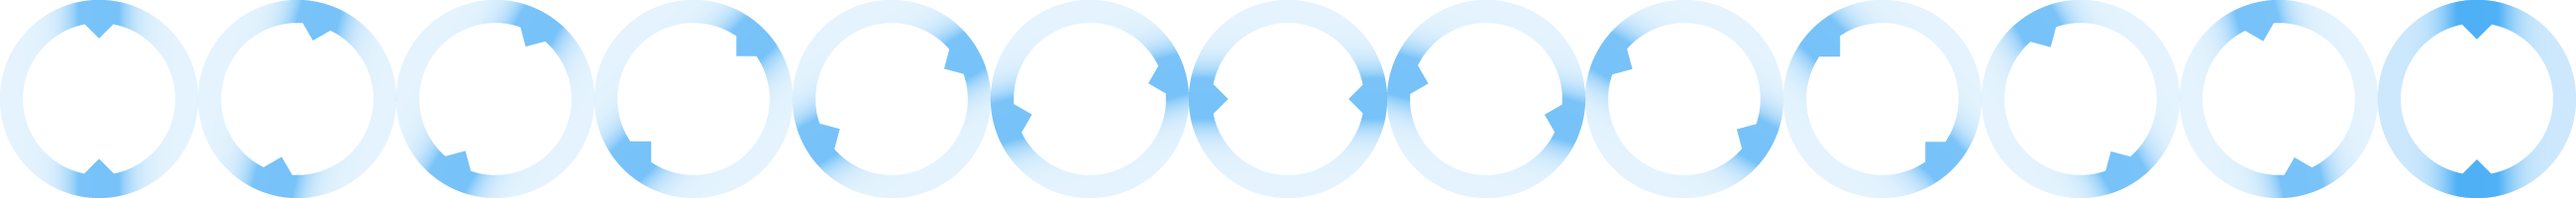
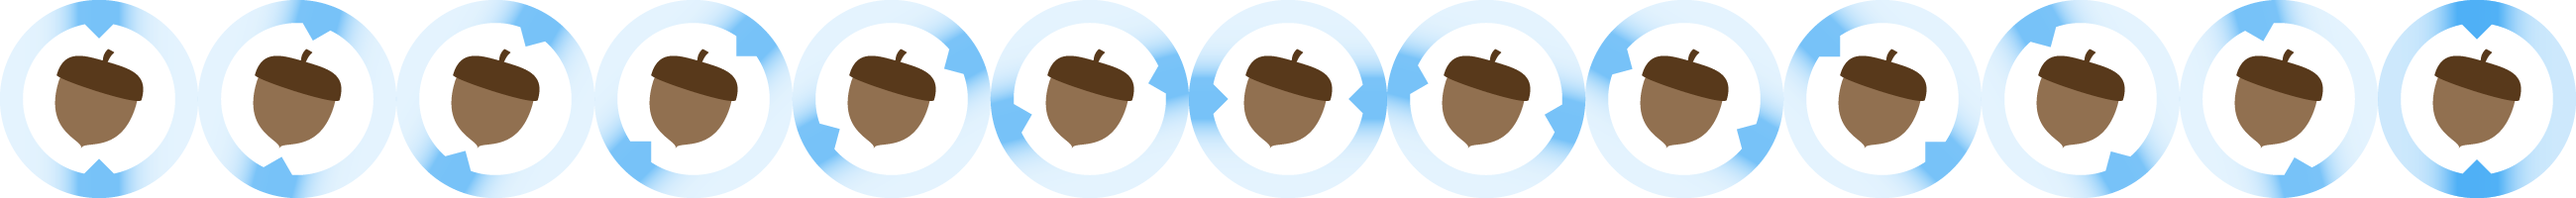
Committing latest changes

diff --git a/scripting/game.js b/scripting/game.js
@@ -1,4 +1,4 @@
-define(["jquery", "createjs", "owl", "acorn", "spinner", "jquery-scrolly", "jquery-ui-touch-punch"], function ($, createjs, owl, acorn, spinner) {
+define(["jquery", "createjs", "owl", "acorn", "statusbar", "jquery-scrolly", "jquery-ui-touch-punch"], function ($, createjs, owl, acorn, statusbar) {
     //Do setup work her
     var init = function() {
     	
@@ -13,6 +13,15 @@ define(["jquery", "createjs", "owl", "acorn", "spinner", "jquery-scrolly", "jque
       //wait for the image to load
       var imgTree = new Image();
       imgTree.onload = function(event) {
+    	  
+    	  var checkIntersection = function(rect1,rect2) {
+    		  if ( rect1.x >= rect2.x + rect2.width 
+    				  || rect1.x + rect1.width <= rect2.x 
+    				  || rect1.y >= rect2.y + rect2.height 
+    				  || rect1.y + rect1.height <= rect2.y ) return false;
+    		  return true;
+    	  };
+
     	  var tree = new createjs.Bitmap(event.target);
           stage.addChild(tree);               
           
@@ -21,9 +30,6 @@ define(["jquery", "createjs", "owl", "acorn", "spinner", "jquery-scrolly", "jque
           
           var newAcorn = acorn.create();
           stage.addChild(newAcorn);
-          
-          var newSpinner = spinner.create();
-          stage.addChild(newSpinner);
           
     	  stage.addEventListener("stagemousedown", function(event) {
     		  console.log(event, event.rawX, event.rawY);
@@ -55,12 +61,15 @@ define(["jquery", "createjs", "owl", "acorn", "spinner", "jquery-scrolly", "jque
 
           createjs.Ticker.timingMode = createjs.Ticker.RAF;
           createjs.Ticker.addEventListener("tick", function(event) {
-              if (newOwl.isFlying() && isOwlOnTree()) { 
-      			//newOwl.sleep();  
-      		  }
         	  newOwl.update();
               // this set makes it so the stage only re-renders when an event handler indicates a change has happened.
               stage.update(event);			  
+              
+              if (newOwl.isFlying() && !checkIntersection(newOwl.getBounds(), newAcorn.getBounds())) {
+            	  console.log("collision detected!!!");
+            	  statusbar.incrementAcorns();
+            	  acorn.visible = false;
+              }
           });
       };
       imgTree.src = "media/images/game/BG_tree.png";    

diff --git a/scripting/statusbar.js b/scripting/statusbar.js
@@ -1,32 +1,51 @@
 define(["jquery"], function ($) {
 
-    //Do setup work her
+	var maxAcorns = 5;
+	var maxEnergy = 2;
+	var currentAccorns = 0;
+	var currentEnergy = 0;
+	
+	var drawAcorns = function() {
+		$('div#acorns tr').empty();
+		for (var i = 0; i < maxAcorns; i++) {
+			$('div#acorns tr').append('<td><img src="media/images/game/acorn_'+ ((i < currentAccorns) ? 'on' : 'off') +'.png"/></td>');
+		}		
+	};
+	
+	var incrementAcorns = function() {
+		currentAccorns < maxAcorns && currentAccorns++ && drawAcorns();
+	};
+	
+	var decrementAcorns = function() {
+		currentAccorns > 0 && currentAccorns-- && drawAcorns();
+	};
+	
+	var incrementEnergy = function() {
+		currentEnergy < maxEnergy && currentEnergy++ && drawEnergy();
+	};
+	
+	var decrementEnergy = function() {
+		currentEnergy > 0 && currentEnergy-- && drawEnergy();
+	};
+	
+	var drawEnergy = function() {
+		for (var i = 0; i < maxEnergy; i++) {				
+			$('div#energy tr').append('<td><img src="media/images/game/energy_'+ ((i < currentEnergy) ? '1' : '2') +'.png"/></td>');
+		}		
+	};
+	
+    //Do setup work here
     var init = function() {
-		var noAcorns = 5;
-		var noEnergy = 2;
-							
-		setAcorns = function(acorns) {
-			$('div#acorns tr').empty();
-			for (var i = 0; i < noAcorns; i++) {
-				$('div#acorns tr').append('<td><img src="media/images/acorn_'+ ((i > acorns) ? 'on' : 'off') +'.png"/></td>');
-			}		
-		};
-		
-		setEnergy = function(engergy) {
-			for (var i = 0; i < noEnergy; i++) {				
-				
-				$('div#energy tr').append('<td><img src="media/images/energy_'+ ((true) ? '1' : '2') +'.png"/></td>');
-			}		
-		};
-		
-		setAcorns(0);
-		setEnergy(0);
+    	drawAcorns();
+		drawEnergy();
     };
 	
-	
-
     return {
-      init : init
+      init : init,
+      incrementAcorns : incrementAcorns,
+      incrementEnergy : incrementEnergy,
+      decrementAcorns : decrementAcorns,
+      decrementEnergy : decrementEnergy
     };
     
 });

diff --git a/scripting/acorn.js b/scripting/acorn.js
@@ -2,25 +2,28 @@
 define(['createjs'], function(createjs) {
 	
 	var img = new Image();
-	img.src = "media/images/game/acorn_on.png"; 
+	img.src = "media/images/game/spinner2.png"; 
 	
 	var create = function() {
 		var data = new createjs.SpriteSheet({
 			"images": [img],
-			"frames": {"regX": 0, "height": 124, "count": 1, "regY": 0, "width": 120},
+			"frames": {"regX": 0, "height": 200, "count": 13, "regY": 0, "width": 200},
 	        // define two animations, run (loops, 1.5x speed) and jump (returns to run):
-	        "animations": {"show": [1, "show"]}
+	        "animations": {"spin": [0, 12, "spin"]}
 	    });
 		
-	   var acorn = new createjs.Sprite(data, "show");
+	   var acorn = new createjs.Sprite(data, "spin");
+	   acorn.framerate = 10;	
 	   
-	   acorn.setTransform(100, 90, 0.8, 0.8);
+	   acorn.setTransform(300, 300, 0.8, 0.8);
 	   
 	   acorn.reposition = function() {
 		   acorn.x = Math.random() * acorn.x;
-		   aconr.y = Math.random() * acorn.y;
+		   acorn.y = Math.random() * acorn.y;
+		   return this;
 	   };
-	   return acorn;
+	   
+	   return acorn.reposition();
 	};
 	
 	return {

diff --git a/app/config.js b/app/config.js
@@ -15,8 +15,7 @@ require.config({
 	"bezier" : "../scripting/bezier",
 	// sprites
 	"owl" : "../scripting/owl",
-	"acorn" : "../scripting/acorn",
-	"spinner" : "../scripting/spinner"
+	"acorn" : "../scripting/acorn"
   }, 
   shim: {
 	    'jquery-scrolly': {

diff --git a/scripting/owl.js b/scripting/owl.js
@@ -20,7 +20,6 @@ define(["createjs", "bezier"], function(createjs, Bezier) {
 		owl.sleep = function() {
 			console.log("owl sleep");
 			owl.gotoAndPlay("sleep");
-			
 			owl.setFlying(false);
 		};
 		
